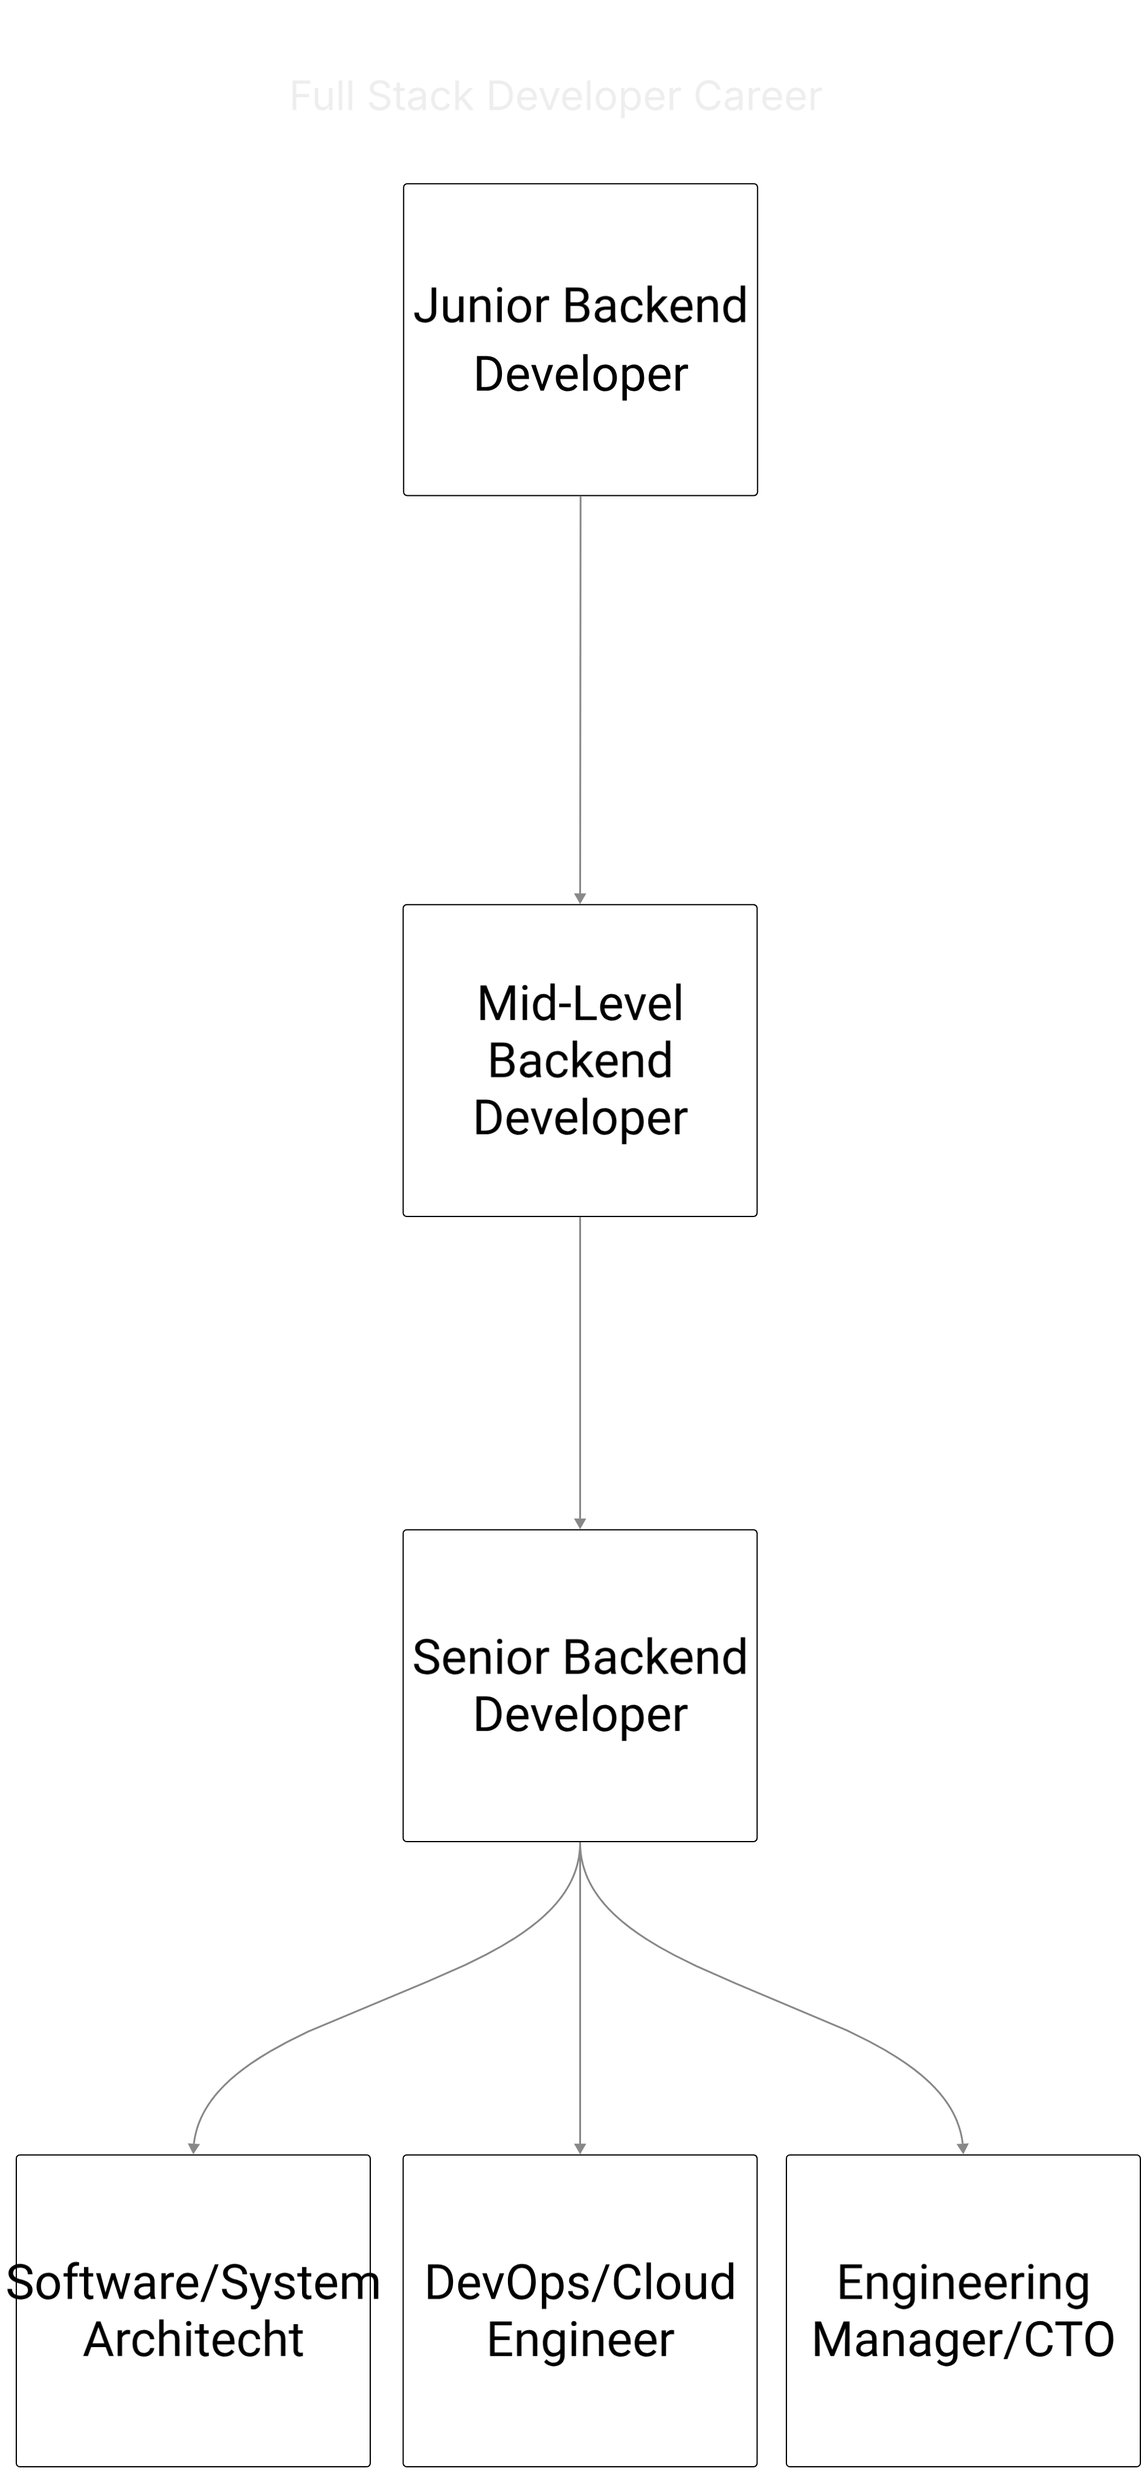
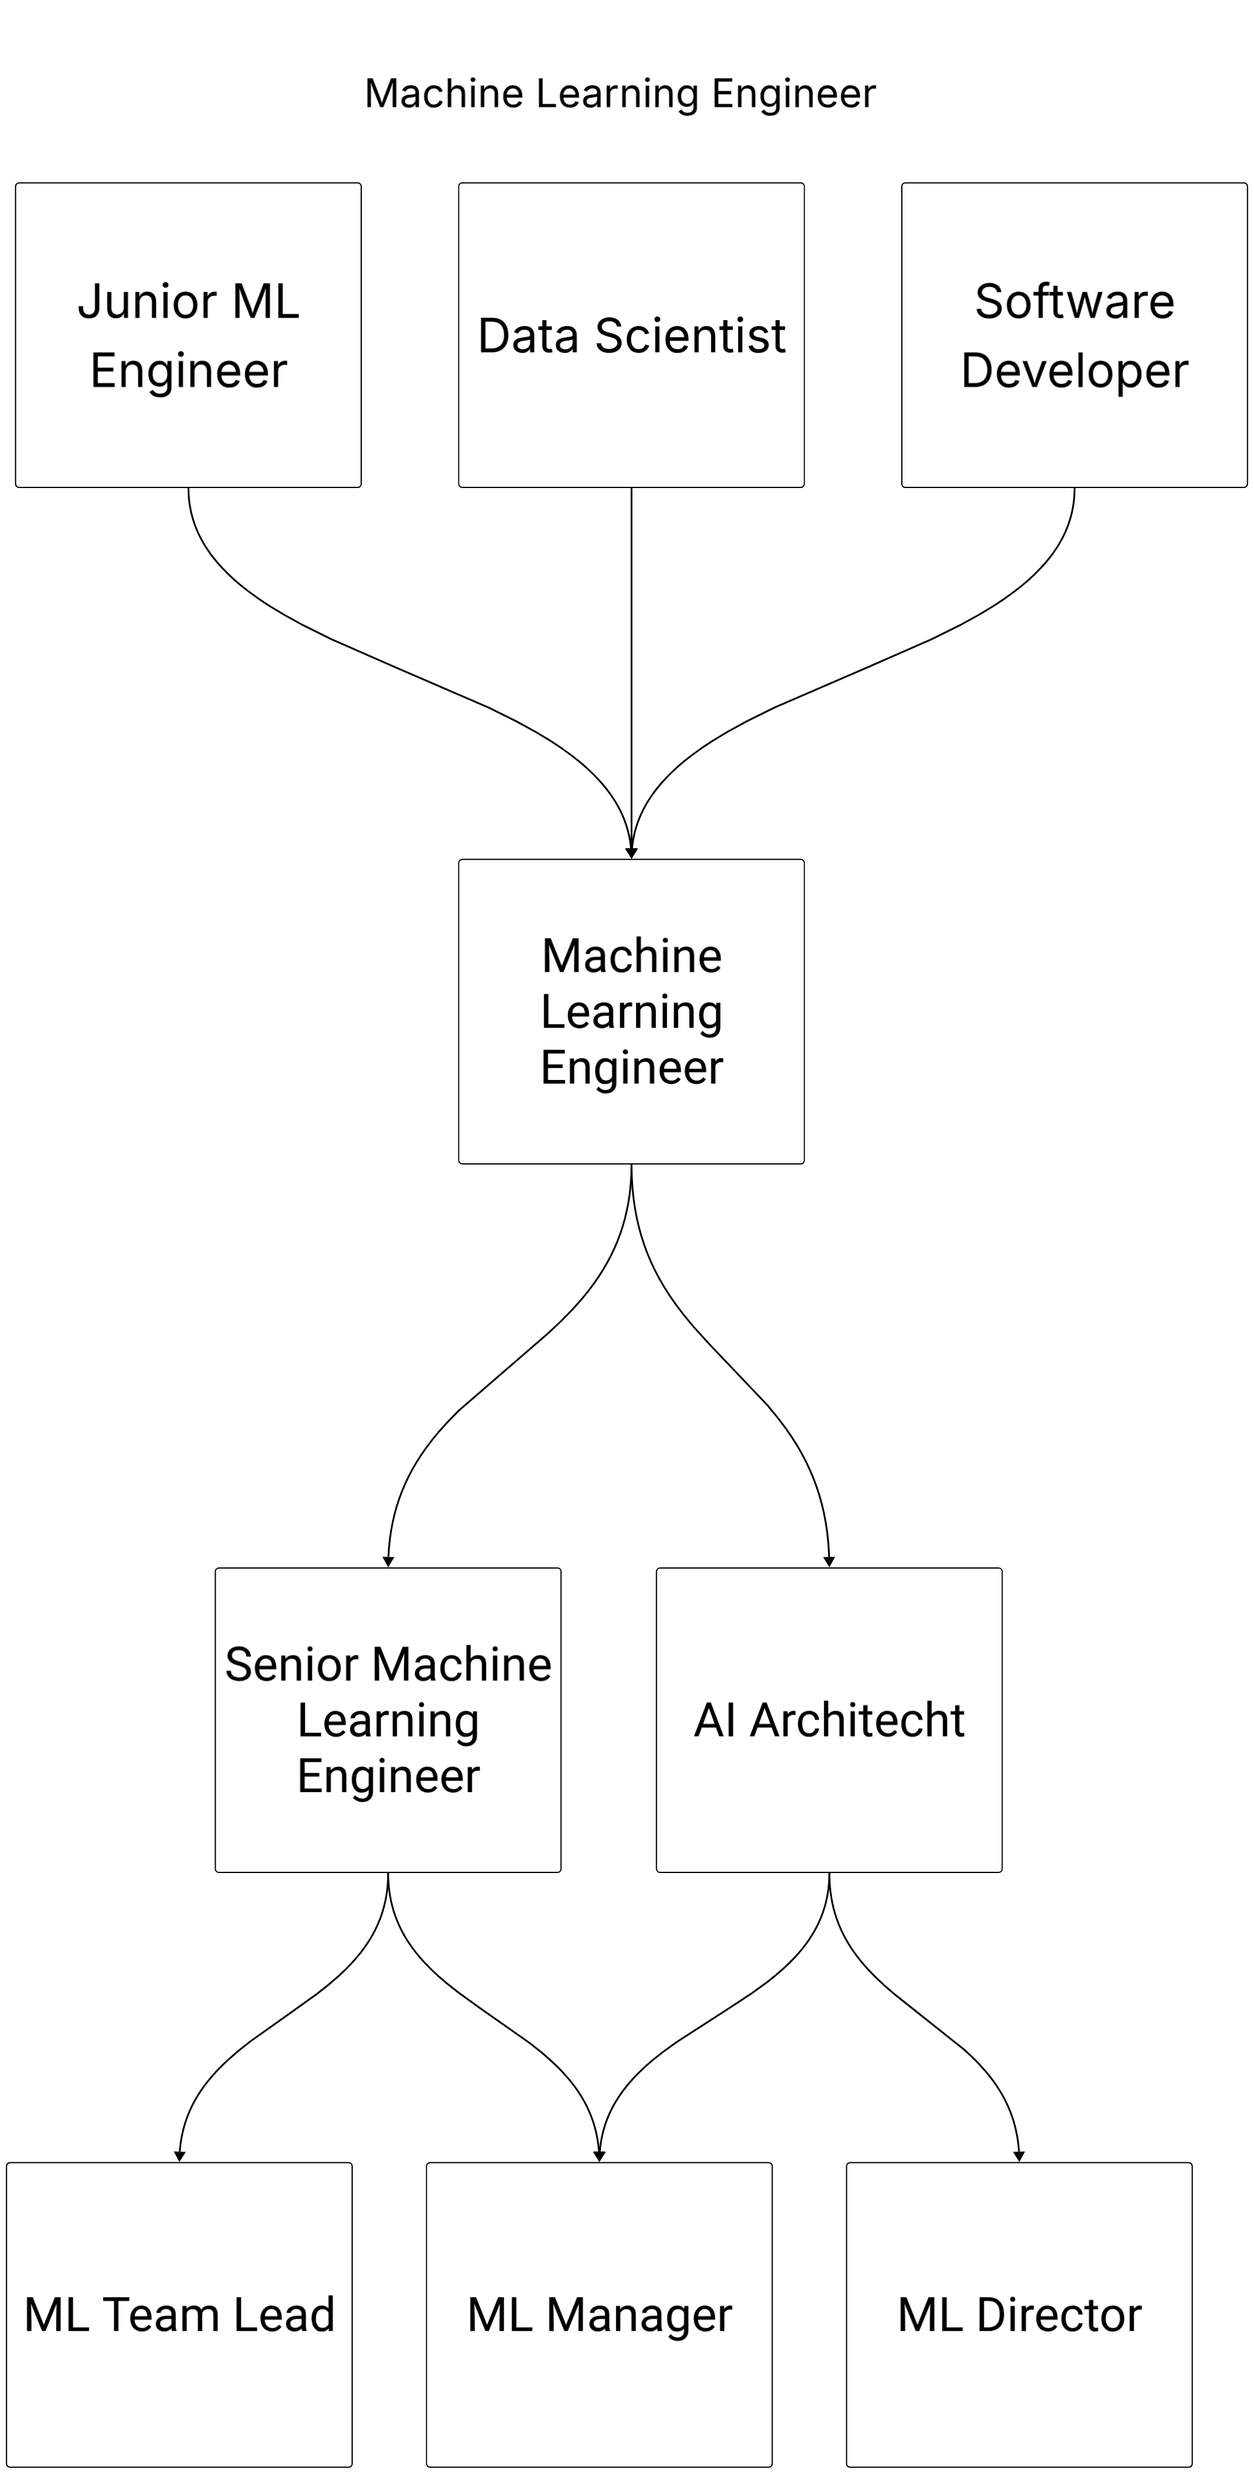
test

diff --git a/index.html b/index.html
@@ -44,45 +44,106 @@
         </div>
     </section>
     <section id="careerInfo">
+        <div id="careerInfoContent">
+        <h2>Careers Information</h2>
+        <p>This is the career information section.</p>
+        </div>
         <div id="careerContainer">
             <div id="MLE">
                 <div id="MLEContent">
                     <h3>What Day to Day Looks Like:</h3>
-                    <p>
-                    They help create the plan for data communication networks then they present those designs to the management, customers and staff. Then they deploy said networks and test to ensure there are no bugs in the system while also documenting the process. They also upgrade previous hardware to better models or to make them more efficient. While also researching better ways to do certain things in the work place.
-                    </p>
+                    <p>They help create the plan for data communication networks then they present those designs to the management, customers and staff. Then they deploy said networks and test to ensure there are no bugs in the system while also documenting the process. They also upgrade previous hardware to better models or to make them more efficient. While also researching better ways to do certain things in the work place.</p>
                     <h3>What Industries Are Hiring:</h3>
-                    <p>
-                    Educational Services hire network architects including public private or state. They are also hired in telecommunications, temporary help services, Computer systems design and related services and company and enterprise management, which includes offices of chief executives, corporate, subsidiary and regional managing offices, and other management consulting services.
-                    </p>
+                    <p>Educational Services hire network architects including public private or state. They are also hired in telecommunications, temporary help services, Computer systems design and related services and company and enterprise management, which includes offices of chief executives, corporate, subsidiary and regional managing offices, and other management consulting services.</p>
+                    <h3>Core Skills:</h3>
+                    <p></p>
+                    <h3>Education Pathways:</h3>
+                    <p></p>
+                    <h3>Certifications:</h3>
+                    <table border="3">
+                        <tr>
+                            <td style="width: 50%;">Certification Name</td>
+                            <td>Issuing Organization</td>
+                        </tr>
+                        <tr>
+                            <td>Oracle Financials Cloud: Payables 2024 Implementation Professional - Delta </td>
+                            <td>Oracle</td>
+                        </tr>
+                        <tr>
+                            <td>Network Automation</td>
+                            <td>OpenText</td>
+                        </tr>
+                    </table>
+                    <h3>Tools & Technologies:</h3>
+                    <p>They use tools such as VS Code/ Notepad++ for writing code. They also use LucidChart for making diagrams and flowcharts</p>
+                    <h3>Salary & Job Outlook:</h3>
+                    <p>Entry Level Salary is between $68,000 - $90,000 annually. Mid-Level Salary is between $90,000 - $130,000 annually. Every year, there are about 11,200 job openings for network architects which is projected to grow by atleast 12% from 2024 to 2034.</p>
                 </div>
-                <img src="./images/machineLearning.png" alt="machine learning engineer career tree" width="250" height="450" class="careerImg3">
+                <img src="./images/image.png" alt="machine learning engineer career tree" width="250" height="450" class="careerImg3">
             </div>
             <div id="fullstack">
                 <div id="fullstackContent">
                     <h1>Full Stack Developer</h1>
                     <h3>What Day to Day Looks Like:</h3>
-                    <p>
-                    They help create the plan for data communication networks then they present those designs to the management, customers and staff. Then they deploy said networks and test to ensure there are no bugs in the system while also documenting the process. They also upgrade previous hardware to better models or to make them more efficient. While also researching better ways to do certain things in the work place.
-                    </p>
+                    <p>They focus several hours of their day on coding, such as new API endpoints, Database Schemas, or implementing business logic. They also help colleagues debug the code using peer review. They also write SQL or deal with NoSQL databases to manage data flow, organization, and security</p>
                     <h3>What Industries Are Hiring:</h3>
-                    <p>
-                    Educational Services hire network architects including public private or state. They are also hired in telecommunications, temporary help services, Computer systems design and related services and company and enterprise management, which includes offices of chief executives, corporate, subsidiary and regional managing offices, and other management consulting services.
-                    </p>
+                    <p>They are in high demand in the Tech , Finance, E-Commerce, Military, and Healthcare industries.</p>
+                    <h3>Core Skills:</h3>
+                    <p>Those languages you should know are HTML, JavaScript(Node.JS), Python, SQL, Java, C#. Soft skills they need is being able to work in a team with other people for bigger projects and managing pre-existing ones. They also need problem solving skills to fix any issues that come up in or after development.</p>
+                    <h3>Education Pathways:</h3>
+                    <p>Some companies require backend developers to have a bachelors degree in a specific field but this is not required as some look more for technical skill rather than a degree. A useful bootcamp could be MITxPRO Full Stack Development with MERN bootcamp even though you won’t be using all of the things you learn in this bootcamp as a backend developer alot of it can be applied to that specific field.</p>
+                    <h3>Certifications:</h3>
+                    <table border="3">
+                        <tr>
+                            <td style="width: 50%;">Certification Name</td>
+                            <td>Issuing Organization</td>
+                        </tr>
+                        <tr>
+                            <td>Python Developer Certification (PYDEV)</td>
+                            <td>Logicwalker, LLC</td>
+                        </tr>
+                        <tr>
+                            <td>Certified Developer of Training (CDT)</td>
+                            <td>International Society of Performance Improvement</td>
+                        </tr>
+                    </table>
+                    <h3>Tools & Technologies:</h3>
+                    <p>They use tools such as GitHub for version control, Postman for testing APIs, and Docker for containerization. They also use frameworks like React for frontend development and Express.js for backend development.</p>
+                    <h3>Salary & Job Outlook:</h3>
+                    <p>Entry Level Salary is between $70,000 - $90,000 annually. Mid-Level Salary is between $90,000 - $120,000 annually. Every year, there are about 25,000 job openings for full stack developers which is projected to grow by atleast 15% from 2024 to 2034.</p>
                 </div>
-                <img src="./images/image.png" alt="backend developer career tree" width="250" height="450" class="careerImg1">
+                <img src="./images/fullstack.png" alt="full stack developer career tree" width="250" height="450" class="careerImg1">
             </div>
             <div id="networkArch">
                 <div id="networkContent">
                     <h1>Network Architect</h1>
                     <h3>What Day to Day Looks Like:</h3>
-                    <p>
-                    They help create the plan for data communication networks then they present those designs to the management, customers and staff. Then they deploy said networks and test to ensure there are no bugs in the system while also documenting the process. They also upgrade previous hardware to better models or to make them more efficient. While also researching better ways to do certain things in the work place.
-                    </p>
+                    <p>They help create the plan for data communication networks then they present those designs to the management, customers and staff. Then they deploy said networks and test to ensure there are no bugs in the system while also documenting the process. They also upgrade previous hardware to better models or to make them more efficient. While also researching better ways to do certain things in the work place.</p>
                     <h3>What Industries Are Hiring:</h3>
-                    <p>
-                    Educational Services hire network architects including public private or state. They are also hired in telecommunications, temporary help services, Computer systems design and related services and company and enterprise management, which includes offices of chief executives, corporate, subsidiary and regional managing offices, and other management consulting services.
-                    </p>
+                    <p>Educational Services hire network architects including public private or state. They are also hired in telecommunications, temporary help services, Computer systems design and related services and company and enterprise management, which includes offices of chief executives, corporate, subsidiary and regional managing offices, and other management consulting services.</p>
+                    <h3>Core Skills:</h3>
+                    <p>Network architects need to be familiar with Python, Powershell, JSON, Perl and C/C+. To be a network architect you also need analytical skills as you have to think about how to setup a network that best fits the needs and requirements of the company. You also need interpersonal skills because in network architecture you will have to work alongside other people so if you don’t work well for you this is no go. You’ll also need leadership skills as a lot of network architects direct a team of people to design, build and implement networks.</p>
+                    <h3>Education Pathways:</h3>
+                    <p>The degree needed to be a network architect can vary some companies require a bachelors degree. While some require a masters degree. And others show no preference degree or not. The best way to get hired as a network architect without any college degree is to have at least 5 years of experience in IT. While also having a decent amount of industry certifications such as the CCNA, CCNP, and CISSP. </p>
+                    <h3>Certifications:</h3>
+                    <table border="3">
+                        <tr>
+                            <td style="width: 50%;">Certification Name</td>
+                            <td>Issuing Organization</td>
+                        </tr>
+                        <tr>
+                            <td>Oracle Financials Cloud: Payables 2024 Implementation Professional - Delta </td>
+                            <td>Oracle</td>
+                        </tr>
+                        <tr>
+                            <td>Network Automation</td>
+                            <td>OpenText</td>
+                        </tr>
+                    </table>
+                    <h3>Tools & Technologies:</h3>
+                    <p>They use tools such as VS Code/ Notepad++ for writing code. They also use LucidChart for making diagrams and flowcharts</p>
+                    <h3>Salary & Job Outlook:</h3>
+                    <p>Entry Level Salary is between $68,000 - $90,000 annually. Mid-Level Salary is between $90,000 - $130,000 annually. Every year, there are about 11,200 job openings for network architects which is projected to grow by atleast 12% from 2024 to 2034.</p>
                 </div>
                 <img src="./images/networkArchitecht.png" alt="network architect career tree" width="350" height="450" class="careerImg2">
             </div>

diff --git a/styles.css b/styles.css
@@ -1,9 +1,12 @@
 :root{
-    --boxColor: #3C3C3C;
-    --backgroundColor: #222222;
-    --textColor: #EEEEEE;
-    --borderColor: #888888;
+    --boxColor: #7F8CAA;
+    --backgroundColor: #333446;
+    --textColor: #EAEFEF;
+    --borderColor: #B8CFCE;
 
+}
+*{
+    font-family: 'Segoe UI', Tahoma, Geneva, Verdana, sans-serif;
 }
 body, html {
     height: 100%;
@@ -20,7 +23,7 @@ header {
     flex-direction: row;
     align-items: center;
     justify-content: space-between;
-    padding: 12px 20px;
+    padding: 12px;
     position: fixed;
     top: 0;
     background-color: var(--backgroundColor);
@@ -66,18 +69,17 @@ nav a:hover {
     color: var(--textColor);
 }
 #careers{
-    margin-bottom: 350px;
+    margin-bottom: 50px;
     display: flex;
     align-items: center;
     justify-content: center;
     flex-direction: column;
 }
-#careerTrees{
+#careerInfoContent{
     display: flex;
-    align-items: center;
-    justify-content: center;
     flex-direction: column;
-    margin-bottom: 100px;
+    justify-content: center;
+    align-items: center;
 }
 .careerPaths{
     display: flex;
@@ -101,35 +103,17 @@ footer{
     background-color: var(--boxColor);
     padding: 20px;
     border-radius: 6px;
-    border: 1px solid var(--borderColor);
+    border: 3px solid var(--borderColor);
     width: 200px;
 }
 .careerImg1{
-    transition: transform 0.3s ease;
-    border: 1px solid var(--borderColor);
-}
-.careerImg1:hover{
-    transform: scale(1.1);
-    transition: transform 0.3s ease;
-    box-shadow: 0 4px 8px rgba(0, 0, 0, 0.2);
+    border: 2px solid var(--borderColor);
 }
 .careerImg2{
-    transition: transform 0.3s ease;
-    border: 1px solid var(--borderColor);
-}
-.careerImg2:hover{
-    transform: scale(1.1);
-    transition: transform 0.3s ease;
-    box-shadow: 0 4px 8px rgba(0, 0, 0, 0.2);
+    border: 2px solid var(--borderColor);
 }
 .careerImg3{
-    transition: transform 0.3s ease;
-    border: 1px solid var(--borderColor);
-}
-.careerImg3:hover{
-    transform: scale(1.1);
-    transition: transform 0.3s ease;
-    box-shadow: 0 4px 8px rgba(0, 0, 0, 0.2);
+    border: 2px solid var(--borderColor);
 }
 #careerContainer{
     display: flex;
@@ -143,8 +127,10 @@ footer{
     flex-direction: row;
     align-items: center;
     justify-content: center;
-    border: 1px solid var(--borderColor);
+    border: 3px solid var(--borderColor);
     padding: 20px;
+    background-color: var(--boxColor);
+    border-radius: 6px;
 }
 #fullstackContent{
     display: flex;
@@ -160,8 +146,10 @@ footer{
     flex-direction: row;
     align-items: center;
     justify-content: center;
-    border: 1px solid var(--borderColor);
+    border: 3px solid var(--borderColor);
     padding: 20px;
+    background-color: var(--boxColor);
+    border-radius: 6px;
 }
 #networkArch > p{
     text-indent: 50px;
@@ -172,13 +160,24 @@ footer{
     gap: 20px;
     width: 750px;
 }
+table{
+    background-color: var(--backgroundColor);
+    border: 3px solid var(--borderColor);
+    height: 200px;
+    border-radius: 6px;
+}
+#networkArch > img {
+    justify-content: flex-end
+}
 #MLE{
     display: flex;
     flex-direction: row;
     align-items: center;
     justify-content: center;
-    border: 1px solid var(--borderColor);
+    border: 3px solid var(--borderColor);
     padding: 20px;
+    background-color: var(--boxColor);
+    border-radius: 6px;
 }
 #MLEContent{
     display: flex;
@@ -191,11 +190,11 @@ footer{
 }
 section {
   opacity: 0;
-  transform: translateY(30px);
+  transform: translateX(30px);
   transition: all 0.8s ease-out;
 }
 section.visible {
   opacity: 1;
-  transform: translateY(0);
+  transform: translateX(0);
 }
 

diff --git a/script.js b/script.js
@@ -1,20 +1,16 @@
 const sections = document.querySelectorAll('section');
-
 const observerOptions = {
-  root: null, // use the viewport
-  threshold: 0.2 // trigger when 20% of the section is visible
+  root: null,
+  threshold: 0.1
 };
-
 const observer = new IntersectionObserver((entries, observer) => {
   entries.forEach(entry => {
     if (entry.isIntersecting) {
       entry.target.classList.add('visible');
-      // Stop observing after it appears (optional)
       observer.unobserve(entry.target);
     }
   });
 }, observerOptions);
-
 sections.forEach(section => {
   observer.observe(section);
 });
